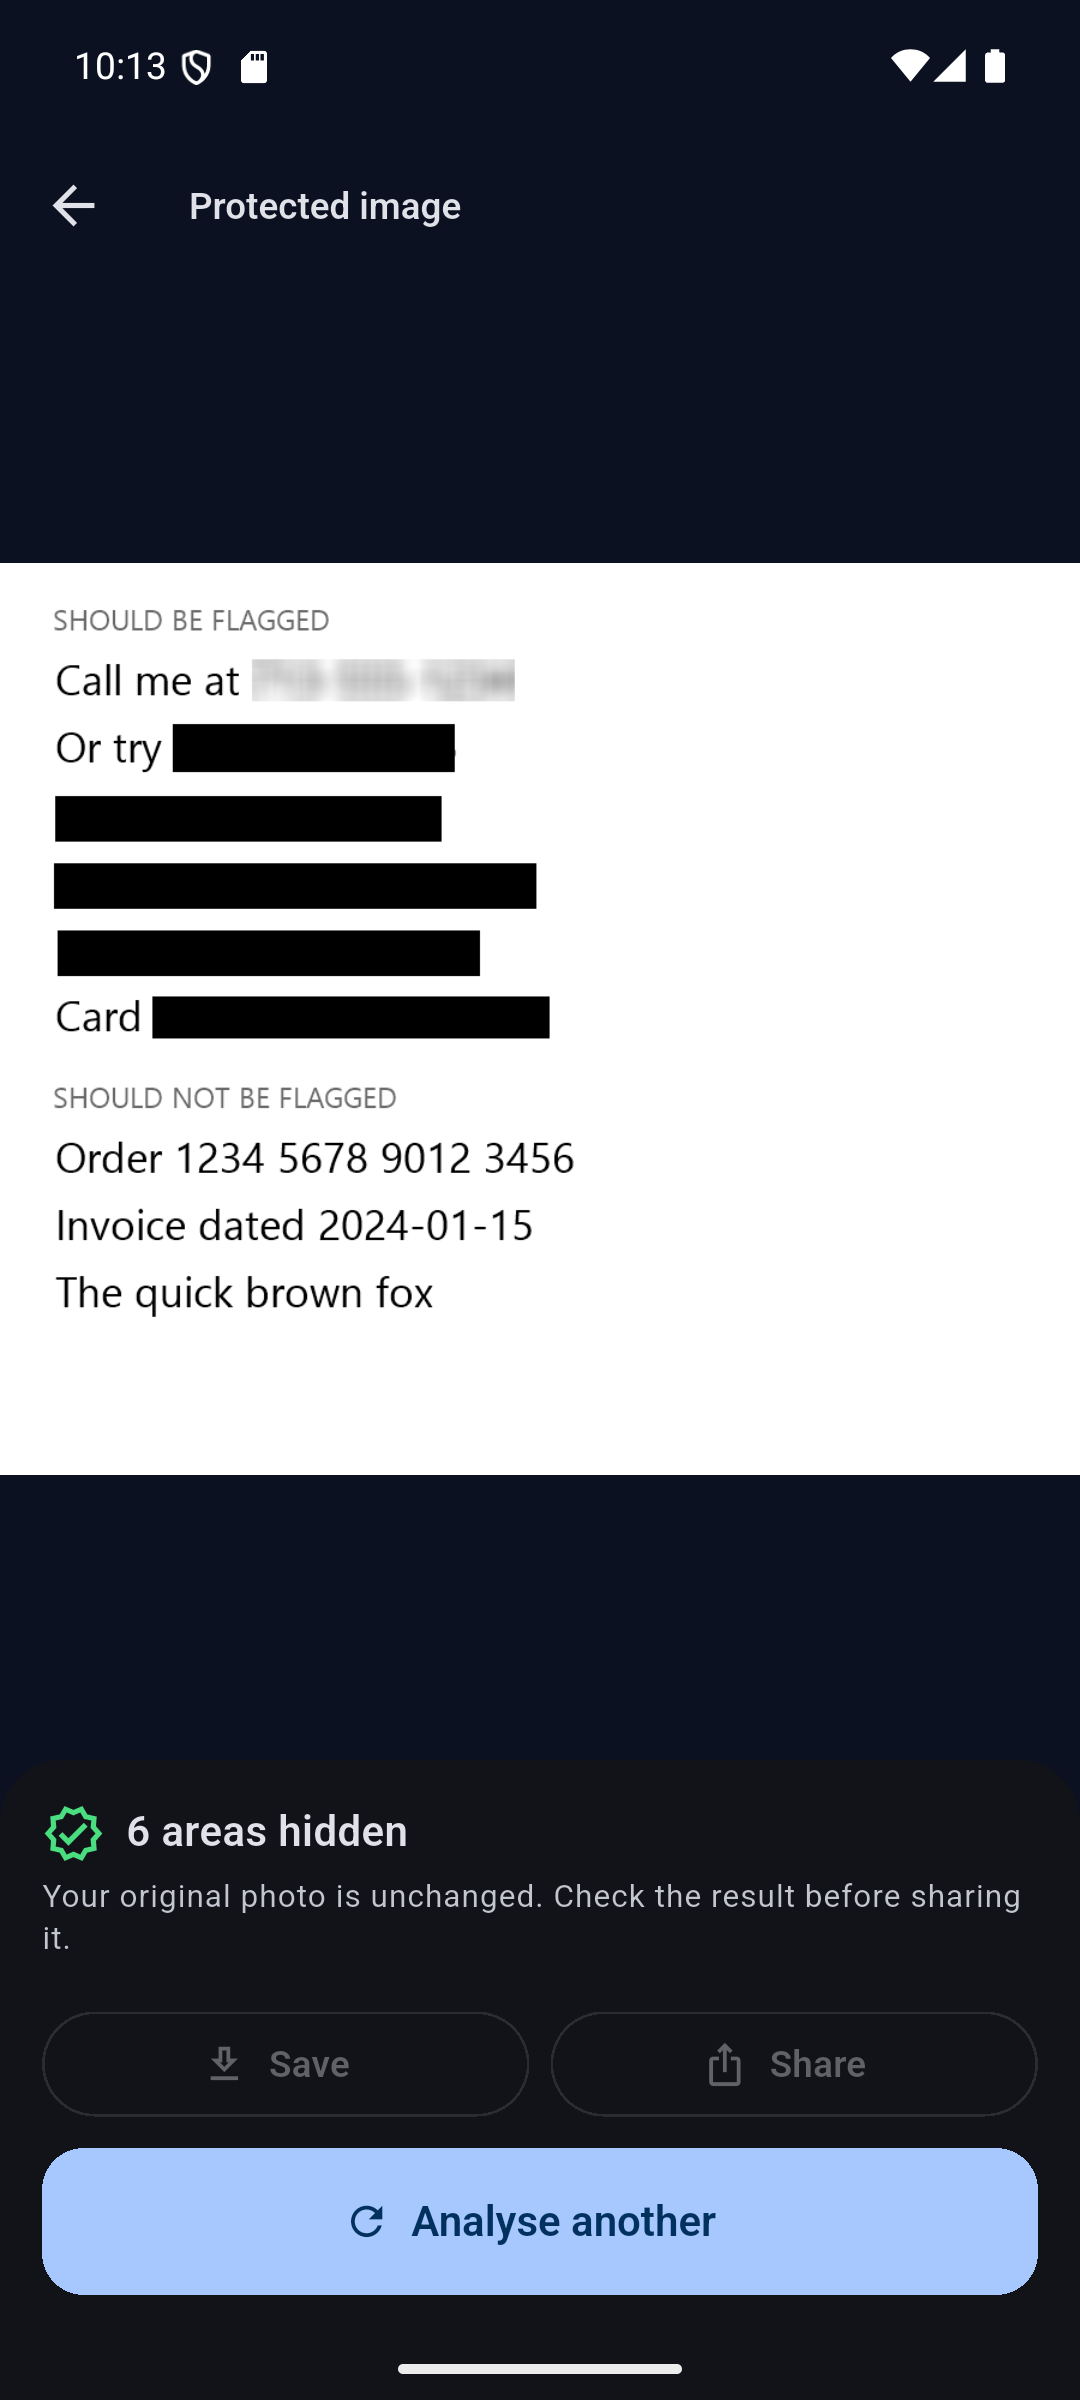
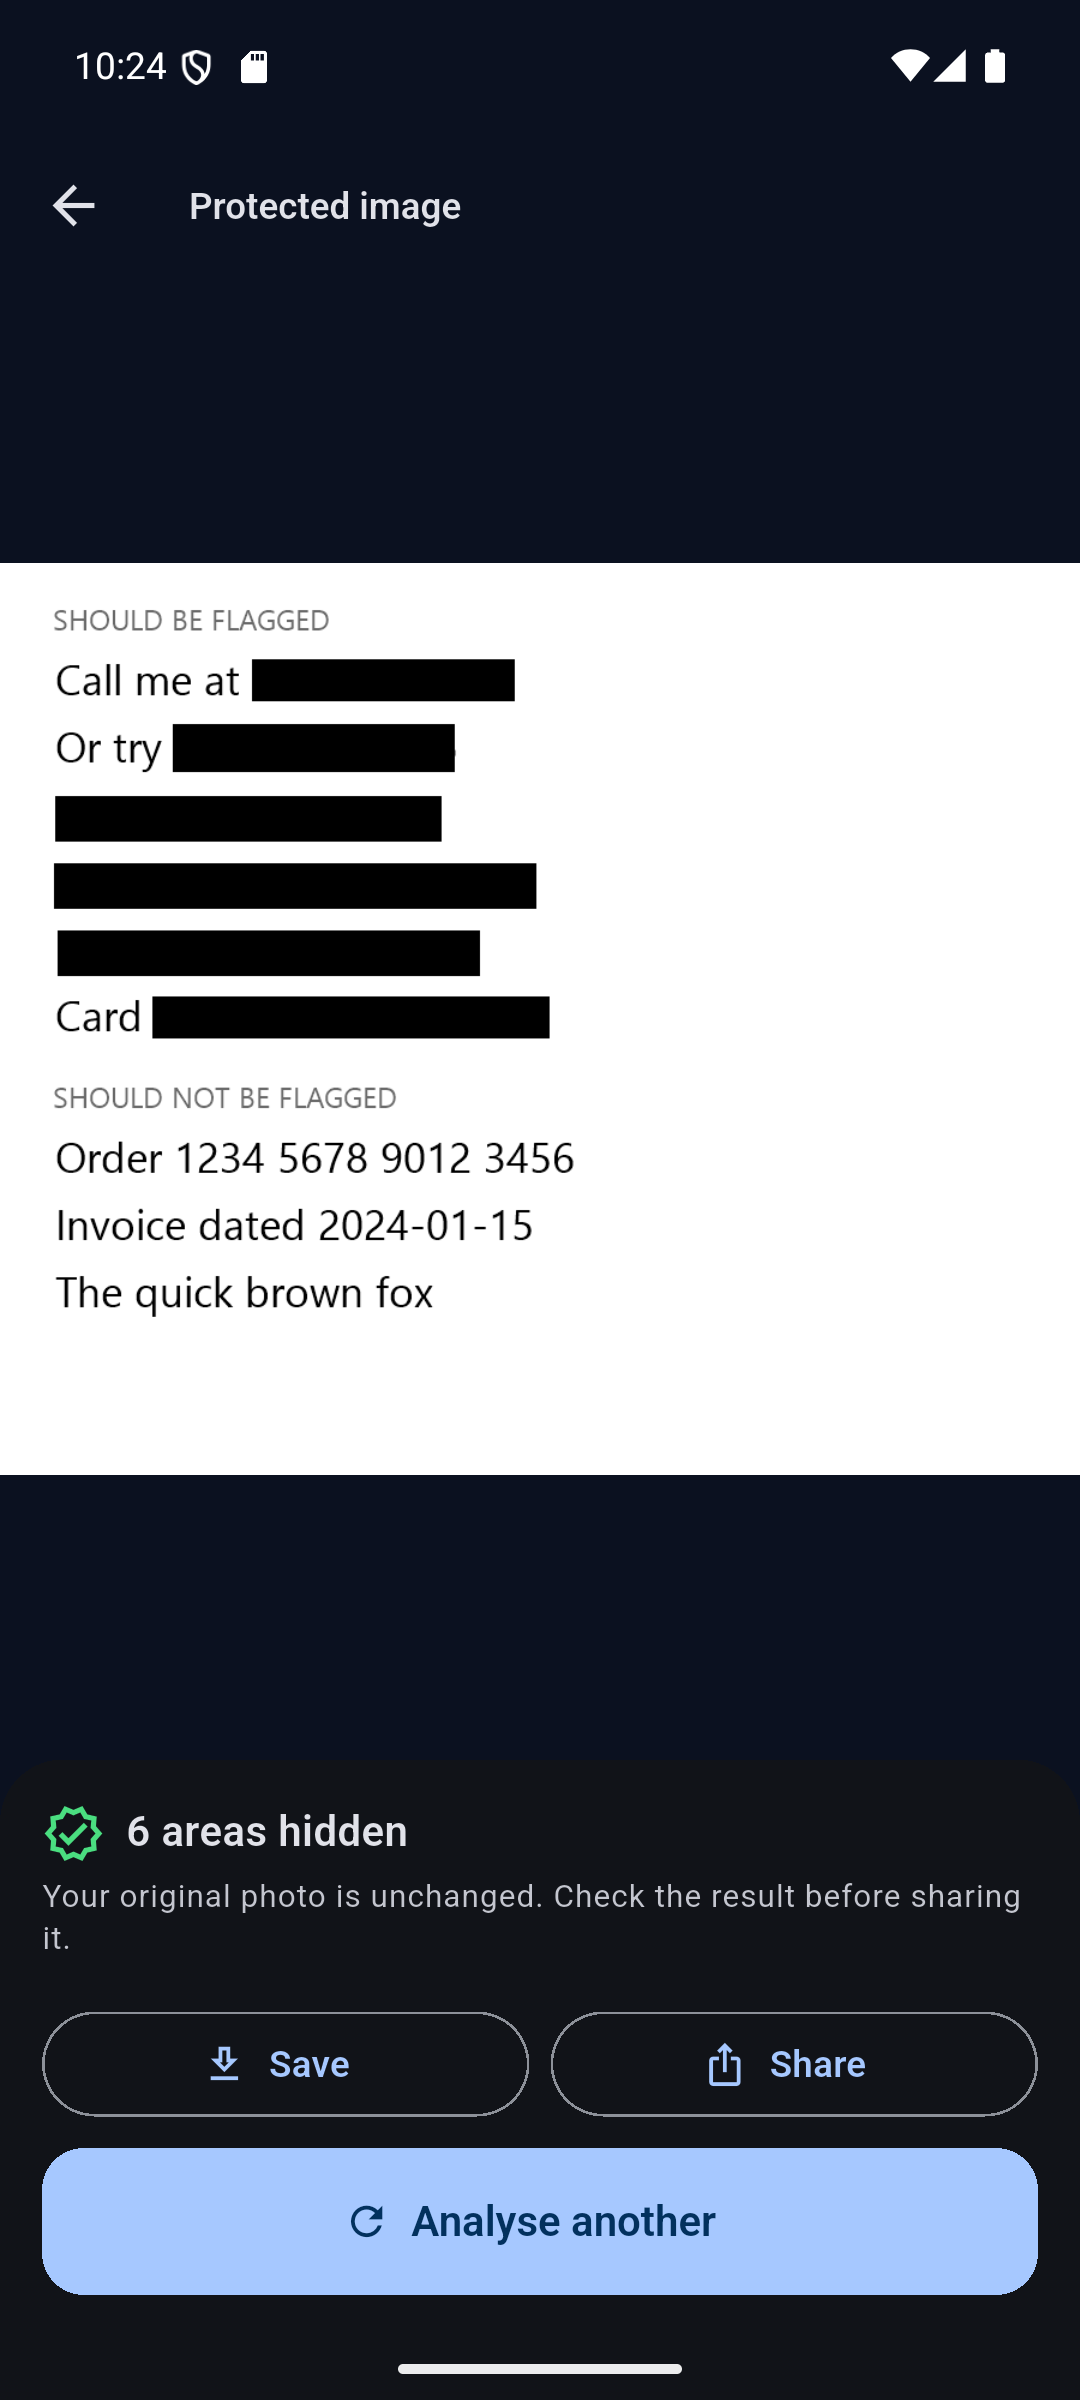
Add save to gallery and share, completing the MVP
gal writes through MediaStore; share_plus hands a temp-file copy to the system share sheet, deliberately without also saving it. Storage permission is scoped to API 28 and below, where it is actually required. Verified in both debug and release builds.

diff --git a/lib/screens/result_screen.dart b/lib/screens/result_screen.dart
@@ -1,6 +1,9 @@
+import 'dart:io';
 import 'dart:typed_data';
 
 import 'package:flutter/material.dart';
+import 'package:gal/gal.dart';
+import 'package:share_plus/share_plus.dart';
 
 import '../theme/app_theme.dart';
 import '../widgets/fade_slide_in.dart';
@@ -10,7 +13,7 @@ import '../widgets/fade_slide_in.dart';
 /// Shows the protected copy. The original file on disk is untouched -
 /// these bytes are a new image held in memory, and nothing is written
 /// anywhere until the user asks for it (outline section 32).
-class ResultScreen extends StatelessWidget {
+class ResultScreen extends StatefulWidget {
   const ResultScreen({
     super.key,
     required this.imageBytes,
@@ -19,6 +22,86 @@ class ResultScreen extends StatelessWidget {
 
   final Uint8List imageBytes;
   final int hiddenCount;
+
+  @override
+  State<ResultScreen> createState() => _ResultScreenState();
+}
+
+class _ResultScreenState extends State<ResultScreen> {
+  /// One flag for both actions: saving and sharing are quick, and letting
+  /// the user start both at once would write the same image twice.
+  bool _busy = false;
+
+  bool get _isPng {
+    final bytes = widget.imageBytes;
+    return bytes.length >= 4 &&
+        bytes[0] == 0x89 &&
+        bytes[1] == 0x50 &&
+        bytes[2] == 0x4E &&
+        bytes[3] == 0x47;
+  }
+
+  /// The redaction engine keeps PNG as PNG and everything else as JPEG,
+  /// so the extension is read back off the bytes rather than tracked.
+  String get _extension => _isPng ? 'png' : 'jpg';
+
+  String get _fileName =>
+      'before_you_post_${DateTime.now().millisecondsSinceEpoch}';
+
+  void _say(String message) {
+    if (!mounted) return;
+    ScaffoldMessenger.of(context)
+      ..hideCurrentSnackBar()
+      ..showSnackBar(SnackBar(content: Text(message)));
+  }
+
+  Future<void> _save() async {
+    if (_busy) return;
+    setState(() => _busy = true);
+
+    try {
+      // Android 10+ needs no permission for this; on older versions gal
+      // asks. Checking first avoids a pointless prompt on modern phones.
+      if (!await Gal.hasAccess()) {
+        final granted = await Gal.requestAccess();
+        if (!granted) {
+          _say('Permission denied, so the image was not saved.');
+          return;
+        }
+      }
+
+      await Gal.putImageBytes(widget.imageBytes, name: _fileName);
+      _say('Saved to your gallery.');
+    } catch (error) {
+      _say('Could not save the image: $error');
+    } finally {
+      if (mounted) setState(() => _busy = false);
+    }
+  }
+
+  Future<void> _share() async {
+    if (_busy) return;
+    setState(() => _busy = true);
+
+    try {
+      // The share sheet hands another app a file, so the bytes have to
+      // land on disk first. This goes to the app's own temporary
+      // directory, not the gallery: sharing should not silently also save.
+      final directory = await Directory.systemTemp.createTemp('byp_share');
+      final file = File('${directory.path}/$_fileName.$_extension');
+      await file.writeAsBytes(widget.imageBytes, flush: true);
+
+      if (!mounted) return;
+
+      await SharePlus.instance.share(
+        ShareParams(files: [XFile(file.path)], subject: 'Protected image'),
+      );
+    } catch (error) {
+      _say('Could not share the image: $error');
+    } finally {
+      if (mounted) setState(() => _busy = false);
+    }
+  }
 
   @override
   Widget build(BuildContext context) {
@@ -35,7 +118,7 @@ class ResultScreen extends StatelessWidget {
               child: SizedBox(
                 width: double.infinity,
                 child: InteractiveViewer(
-                  child: Image.memory(imageBytes, fit: BoxFit.contain),
+                  child: Image.memory(widget.imageBytes, fit: BoxFit.contain),
                 ),
               ),
             ),
@@ -59,9 +142,9 @@ class ResultScreen extends StatelessWidget {
                           const SizedBox(width: AppSpacing.sm),
                           Expanded(
                             child: Text(
-                              hiddenCount == 1
+                              widget.hiddenCount == 1
                                   ? '1 area hidden'
-                                  : '$hiddenCount areas hidden',
+                                  : '${widget.hiddenCount} areas hidden',
                               style: theme.textTheme.titleMedium,
                             ),
                           ),
@@ -83,8 +166,7 @@ class ResultScreen extends StatelessWidget {
                       children: [
                         Expanded(
                           child: OutlinedButton.icon(
-                            // Saving and sharing are the next phase.
-                            onPressed: null,
+                            onPressed: _busy ? null : _save,
                             icon: const Icon(Icons.download_outlined),
                             label: const Text('Save'),
                           ),
@@ -92,7 +174,7 @@ class ResultScreen extends StatelessWidget {
                         const SizedBox(width: AppSpacing.sm),
                         Expanded(
                           child: OutlinedButton.icon(
-                            onPressed: null,
+                            onPressed: _busy ? null : _share,
                             icon: const Icon(Icons.ios_share),
                             label: const Text('Share'),
                           ),
@@ -104,9 +186,11 @@ class ResultScreen extends StatelessWidget {
                       // popUntil isFirst returns to the home screen,
                       // discarding the analysis and editor routes so the
                       // back button cannot walk into a stale scan.
-                      onPressed: () =>
-                          Navigator.of(context)
-                              .popUntil((route) => route.isFirst),
+                      onPressed: _busy
+                          ? null
+                          : () =>
+                                Navigator.of(context)
+                                    .popUntil((route) => route.isFirst),
                       icon: const Icon(Icons.refresh),
                       label: const Text('Analyse another'),
                     ),

diff --git a/README.md b/README.md
@@ -29,7 +29,9 @@ Built with Flutter and Google ML Kit. No backend, no accounts, no image uploads.
 
 ## Status
 
-This is an **in-progress project**, and the README says what actually works today rather than what is planned.
+**The MVP is complete.** Every step of the outline's definition of done works end to end: open the app, choose or take a photo, scan it on-device, review each finding, choose what to hide and how, draw your own box over anything missed, produce a protected copy, and save or share it.
+
+The README says what actually works today rather than what is planned.
 
 | Capability | State |
 |---|---|
@@ -42,7 +44,7 @@ This is an **in-progress project**, and the README says what actually works toda
 | **Redaction — renders a protected copy** | ✅ Working |
 | Light + dark themes, persisted | ✅ Working |
 | Manual drag-to-redact for anything the scan missed | ✅ Working |
-| Save / share the protected copy | ❌ Not built — those buttons on the result screen are visibly disabled |
+| Save to the gallery, or share via the system share sheet | ✅ Working |
 | iOS support | ❌ Not configured (Android-only project) |
 
 ---
@@ -165,6 +167,8 @@ The overlay avoids letterbox maths entirely by forcing the image container to th
 | Sensitive text | Regex + Luhn (hand-written) | Readable, testable, explainable |
 | Image picking | `image_picker` | Gallery + camera, uses the Android photo picker |
 | Redaction | `image` | Pure Dart, so the pixel work runs in an isolate |
+| Sharing | `share_plus` | Hands the protected copy to the system share sheet |
+| Saving | `gal` | Writes to the gallery via MediaStore |
 | Preferences | `shared_preferences` | Theme choice only |
 | Backend | **None** | See below |
 
@@ -269,7 +273,6 @@ These are measured, not hypothetical.
 - **Blur and pixelation are weaker than blackout.** Both are lossy but not destructive, and against a short, guessable value such as a phone number they are a softer guarantee than a solid block. That is why text defaults to blackout and only faces default to blur. An early blur radius left phone numbers readable in testing; it is now far more aggressive, and a test pins that strength.
 - **The release APK is about 117 MB.** It is a universal build carrying every ABI plus ML Kit's bundled models. `flutter build appbundle`, or `--split-per-abi`, would cut that substantially; neither is set up yet.
 - **The protected copy is always re-encoded from raw pixels**, so a palette PNG comes back as a full-colour PNG and is larger than the original, and an AVIF or HEIC input comes back as JPEG. Correctness and format support over file size.
-- **The protected copy cannot be saved or shared yet.** It is rendered and displayed, but writing it to the gallery or handing it to the share sheet is the next phase.
 - **One finding type per line of text.** A line containing both an email and a phone number reports only the email. Manual redaction (planned) is the escape hatch.
 - **Address detection is shallow.** A regex for "number + street name + suffix" catches common US-style addresses and will miss most international formats.
 - **Phone-number detection is US-centric** and will flag some non-phone digit sequences of the right shape. This is why every finding is labelled *potential* and is reviewable.
@@ -281,10 +284,7 @@ These are measured, not hypothetical.
 
 ## Roadmap
 
-**Next — v1 completion**
-1. Save to gallery and share via the system share sheet — the last piece of the MVP
-
-The redaction engine itself is done: blur, pixelate and blackout, rendered **once** from the original plus the list of instructions rather than by re-editing a JPEG, and run in an isolate so the UI never freezes.
+The MVP is finished, so everything below is genuinely optional.
 
 **Later**
 - Licence-plate detection with a YOLO model
